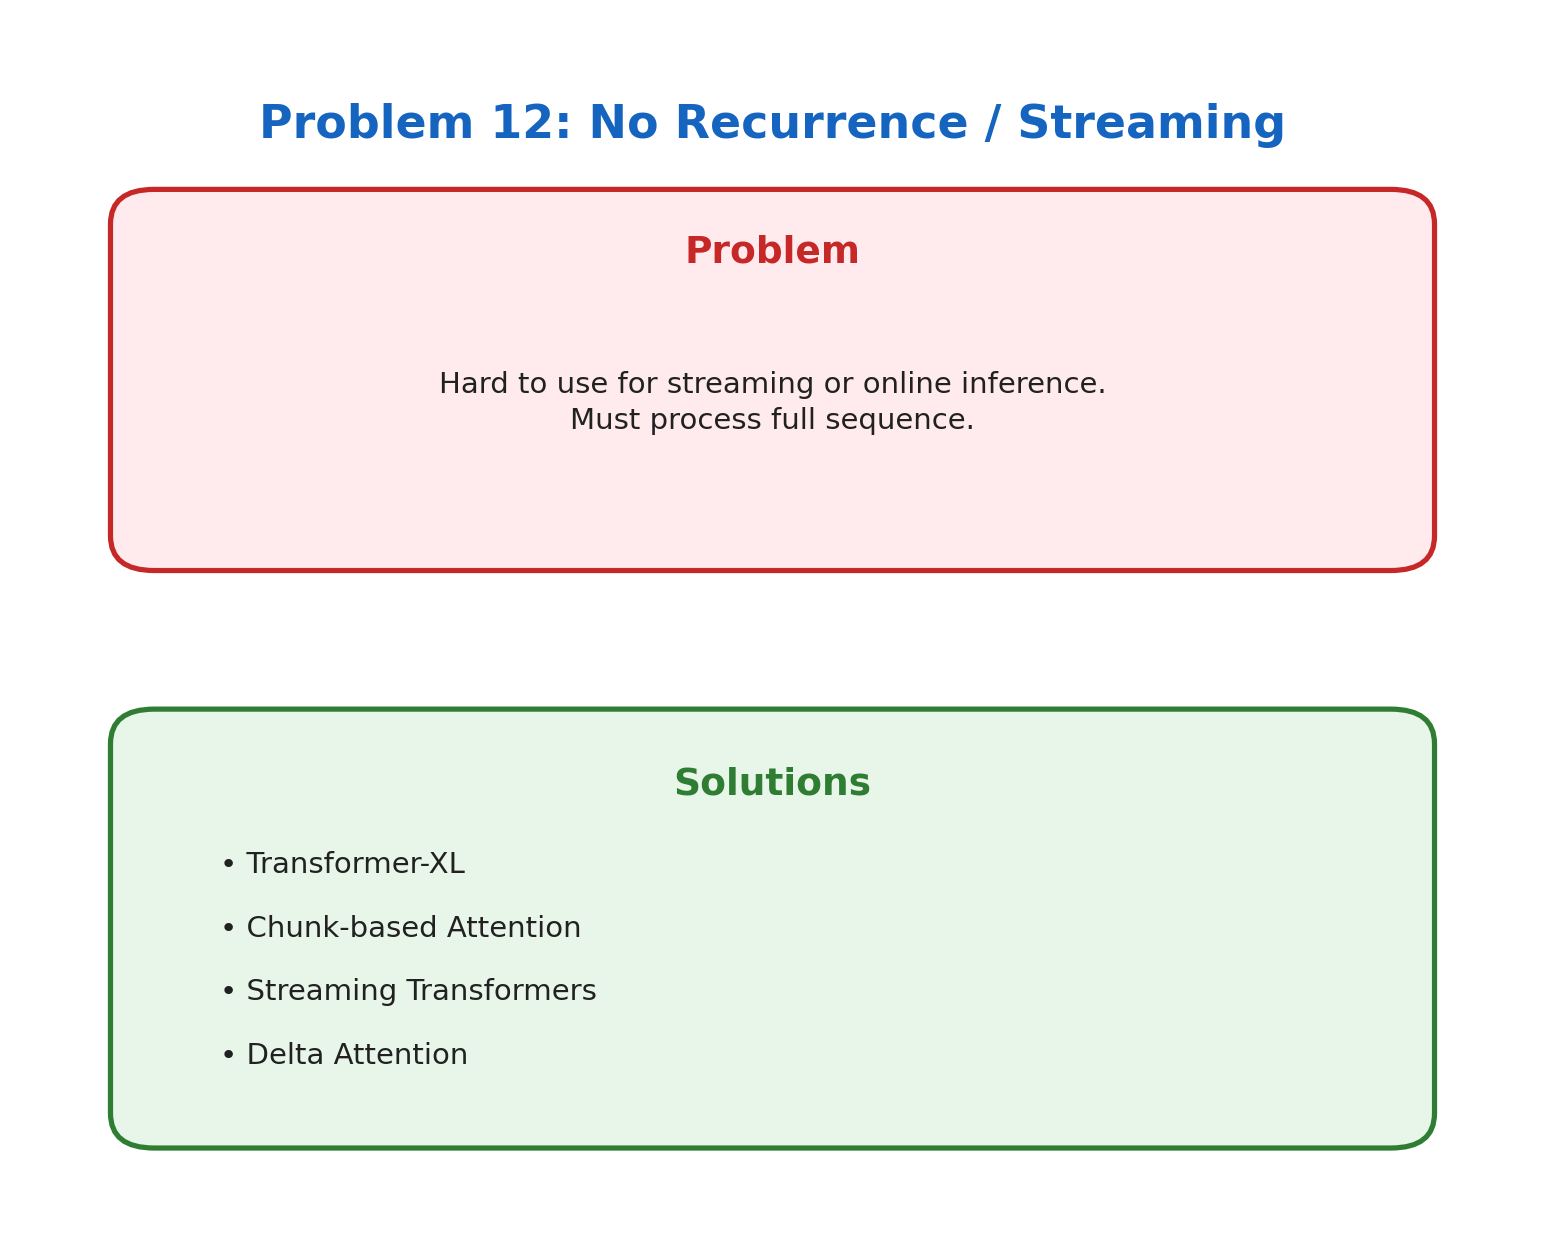
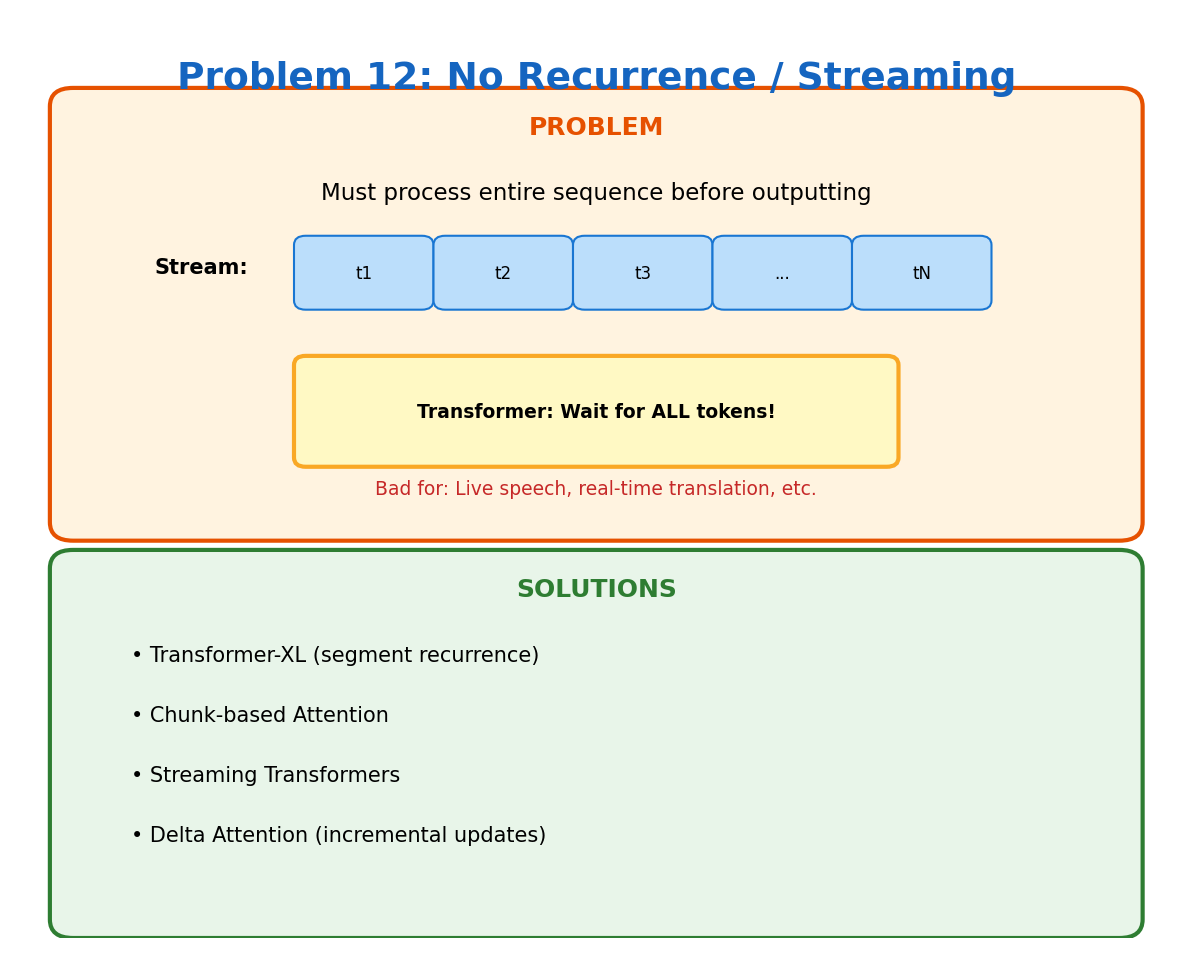
Update Problem 12: No Recurrence/Streaming - human-readable README

diff --git a/12_no_recurrence/README.md b/12_no_recurrence/README.md
@@ -1,23 +1,68 @@
 # Problem 12: No Recurrence / Streaming
 
-## Problem
+[← Back to Main](../README.md) | [← Previous](../11_attention_smoothing/README.md) | [Next →](../13_model_size/README.md)
 
-Hard to use for streaming or online inference. Must process full sequence.
+---
 
-Standard Transformers require the entire input sequence to compute attention, making them unsuitable for streaming applications where data arrives continuously.
+![Problem 12](./problem.png)
 
-## Solutions
+## What's the Problem?
 
-| Solution | Description |
-|----------|-------------|
-| **Transformer-XL** | Segment-level recurrence for processing sequences in chunks |
-| **Chunk-based Attention** | Process input in fixed-size chunks with cross-chunk attention |
-| **Streaming Transformers** | Architectures designed for online/streaming inference |
-| **Delta Attention** | Incremental attention updates for streaming scenarios |
+Someone's talking to you. You want to transcribe it in real-time. But your transformer needs the *entire* utterance before it can process anything.
 
-## References
+Transformers fundamentally need to see all tokens to compute attention. Token 50 attends to token 1, so you can't process token 50 until token 1 exists. This makes streaming applications tricky:
 
-- [Transformer-XL](https://arxiv.org/abs/1901.02860) - Attentive Language Models Beyond a Fixed-Length Context
-- [Streaming Transformer](https://arxiv.org/abs/2010.11395) - Streaming Transformer for Hardware Efficient Voice Conversion
-- [Emformer](https://arxiv.org/abs/2010.10759) - Efficient Memory Transformer for Streaming Speech Recognition
+- Real-time transcription
+- Live translation  
+- Voice assistants
+- Gaming NPCs
 
+Users don't want to wait 10 seconds for a response in a conversation.
+
+## Why Does This Happen?
+
+Self-attention computes:
+```
+Attention(i) = softmax(q_i · K) · V
+```
+
+Notice that every query looks at ALL keys. For token 50 to compute attention, keys for tokens 1-49 must exist. No shortcuts.
+
+RNNs didn't have this problem — they process one token at a time, maintaining a hidden state. Transformers traded recurrence for parallelism.
+
+## How Do We Fix It?
+
+| Approach | How It Works |
+|----------|--------------|
+| **Transformer-XL** | Process in segments, pass hidden states between segments |
+| **Chunked Attention** | Process fixed-size chunks, use cross-attention between chunks |
+| **Streaming Transformers** | Causal attention with lookback window |
+| **Delta Attention** | Incrementally update attention when new tokens arrive |
+| **State Space Models** | Mamba/S4 — RNN-like recurrence with parallel training |
+
+## The SSM Alternative
+
+State Space Models (like Mamba) bring back recurrence but keep parallel training:
+- Training: Process all tokens in parallel (like transformers)
+- Inference: Process one token at a time with constant memory (like RNNs)
+
+This makes them naturally suited for streaming.
+
+## Practical Streaming Today
+
+Most "streaming" LLM applications use a simple trick:
+1. Wait for a pause in speech
+2. Process the chunk
+3. Output result
+4. Continue
+
+Not true streaming, but good enough for most use cases.
+
+## Learn More
+
+- [Transformer-XL](https://arxiv.org/abs/1901.02860) — Segment-level recurrence
+- [Mamba](https://arxiv.org/abs/2312.00752) — The SSM approach
+
+---
+
+[← Back to Main](../README.md) | [← Previous](../11_attention_smoothing/README.md) | [Next →](../13_model_size/README.md)
